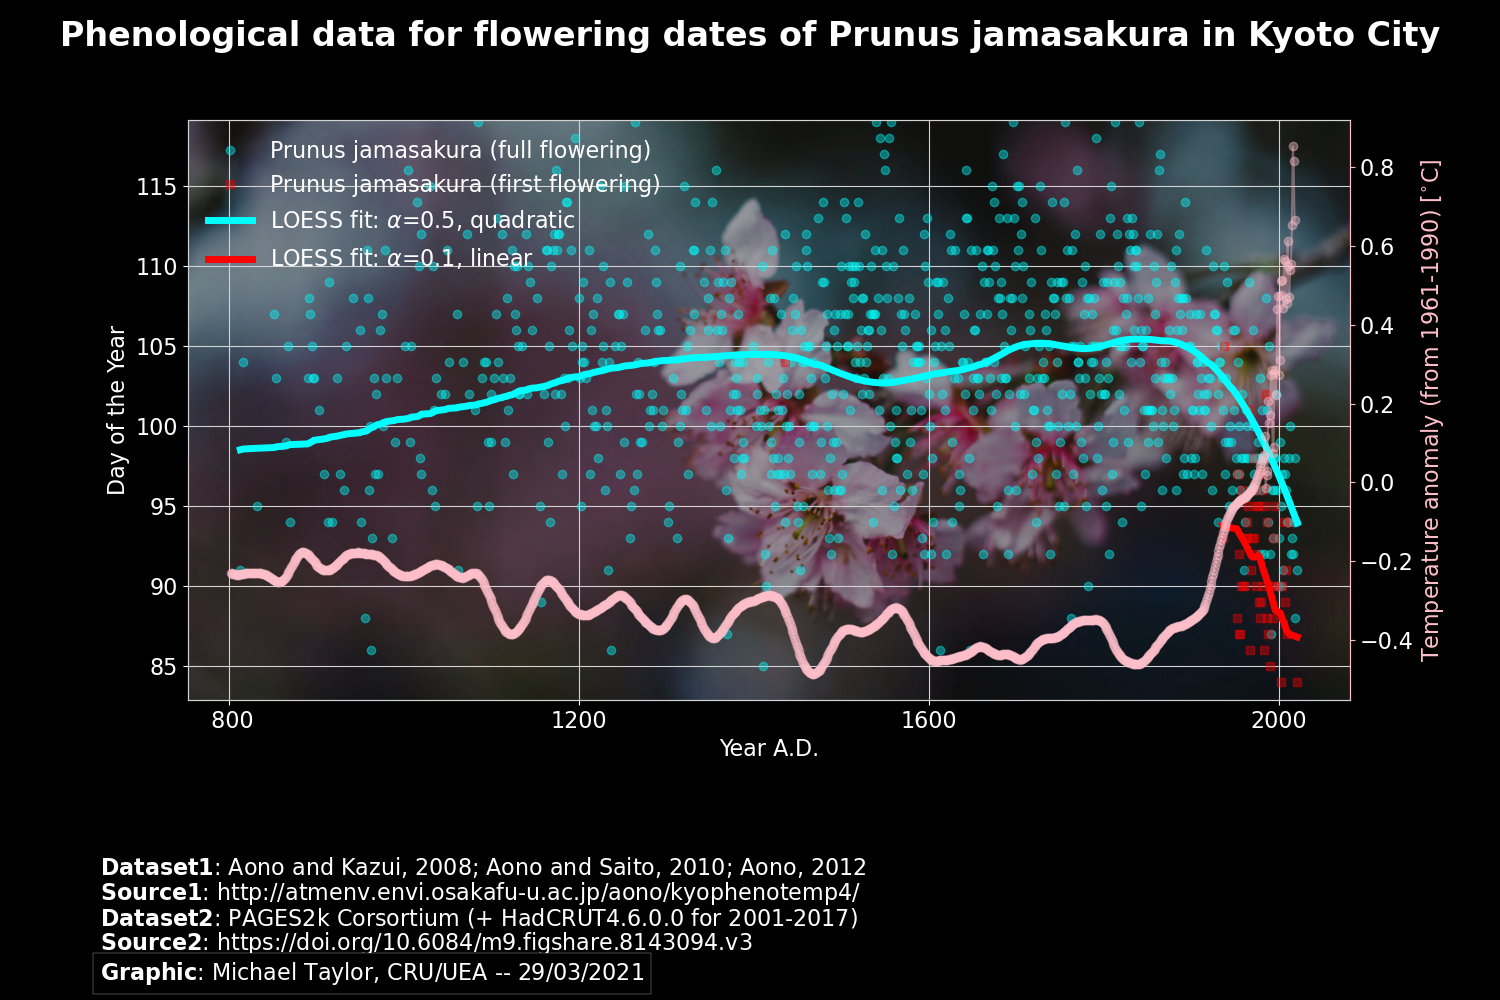
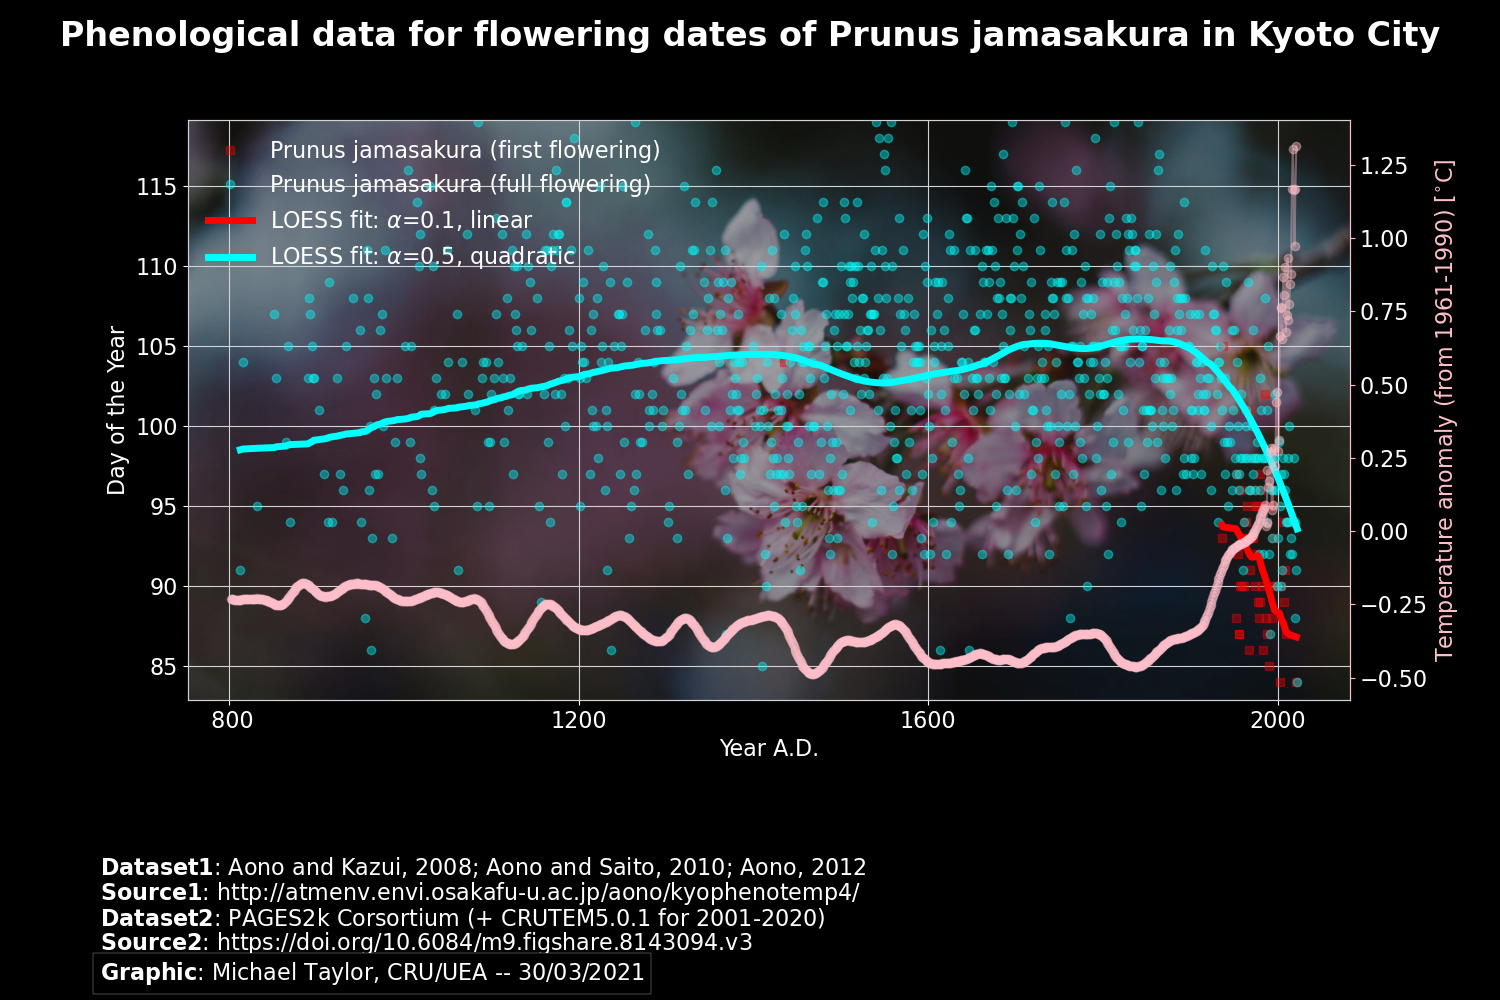
Added 2021 sakura datapoint + temperature anomalies from CRUTEM5 to 2020-12

diff --git a/glosat-sakura.py b/glosat-sakura.py
@@ -207,7 +207,9 @@ df_sakura['ts_sakura_Fu'] = ts_sakura_Fu
 # 1945	0.014	0.006	-0.2553	0.2013	-0.0692	-0.0692	-0.3131	0.0901
 # Year CE | raw instrumental target data | reconstruction ensemble 50th | 2.5th | 97.5th percentiles | 31-year butterworth filtered instrumental target data | 31-year butterworth filtered reconstruction 50th | 2.5th | 97.5th percentiles
 
-pages2k_file = 'DATA/Full_ensemble_median_and 95pct_range.txt'
+#pages2k_file = 'DATA/Full_ensemble_median_and 95pct_range.txt'
+#pages2k_file = 'DATA/Full_ensemble_median_and 95pct_range_HadCRUT5.txt'
+pages2k_file = 'DATA/Full_ensemble_median_and 95pct_range_CRUTEM5.txt'
 nheader = 5
 f = open(pages2k_file)
 lines = f.readlines()
@@ -259,10 +261,10 @@ figstr = 'glosat-sakura.png'
 titlestr = 'Phenological data for flowering dates of Prunus jamasakura in Kyoto City'
 
 fig,ax = plt.subplots(figsize=(15,10))
-plt.plot(df_sakura['t_sakura'],df_sakura['ts_sakura_Fu'], color='cyan', marker='o', linestyle='None', alpha=0.4, label='Prunus jamasakura (full flowering)')
 plt.plot(df_sakura['t_sakura'],df_sakura['ts_sakura_Fi'], color='red', marker='s', linestyle='None', alpha=0.4, label='Prunus jamasakura (first flowering)')
-plt.plot(l_x_Fu, l_y_Fu, color='cyan', linestyle='-', linewidth=5, alpha=1.0, label='LOESS fit: '+r'$\alpha$=0.5' + ', quadratic')
+plt.plot(df_sakura['t_sakura'],df_sakura['ts_sakura_Fu'], color='cyan', marker='o', linestyle='None', alpha=0.4, label='Prunus jamasakura (full flowering)')
 plt.plot(l_x_Fi, l_y_Fi, color='red', linestyle='-', linewidth=5, alpha=1.0, label='LOESS fit: '+r'$\alpha$=0.1' + ', linear')
+plt.plot(l_x_Fu, l_y_Fu, color='cyan', linestyle='-', linewidth=5, alpha=1.0, label='LOESS fit: '+r'$\alpha$=0.5' + ', quadratic')
 xmin, xmax = ax.get_xlim()
 ymin, ymax = ax.get_ylim()
 aspect = img.shape[0] / img.shape[1] * (xmax - xmin)/(ymax - ymin)
@@ -283,7 +285,7 @@ ax2.set_ylabel(r'Temperature anomaly (from 1961-1990) [$^{\circ}$C]', color='pin
 
 datastr1 = r'$\bf{Dataset 1}$' + ': Aono and Kazui, 2008; Aono and Saito, 2010; Aono, 2012'        
 sourcestr1 = r'$\bf{Source 1}$' + ': http://atmenv.envi.osakafu-u.ac.jp/aono/kyophenotemp4/'        
-datastr2 = r'$\bf{Dataset 2}$' + ': PAGES2k Corsortium (+ HadCRUT4.6.0.0 for 2001-2017)'        
+datastr2 = r'$\bf{Dataset 2}$' + ': PAGES2k Corsortium (+ CRUTEM5.0.1 for 2001-2020)'        
 sourcestr2 = r'$\bf{Source 2}$' + ': https://doi.org/10.6084/m9.figshare.8143094.v3'        
 authorstr = r'$\bf{Graphic}$' + ': Michael Taylor, CRU/UEA' + ' -- ' + titletime
 
